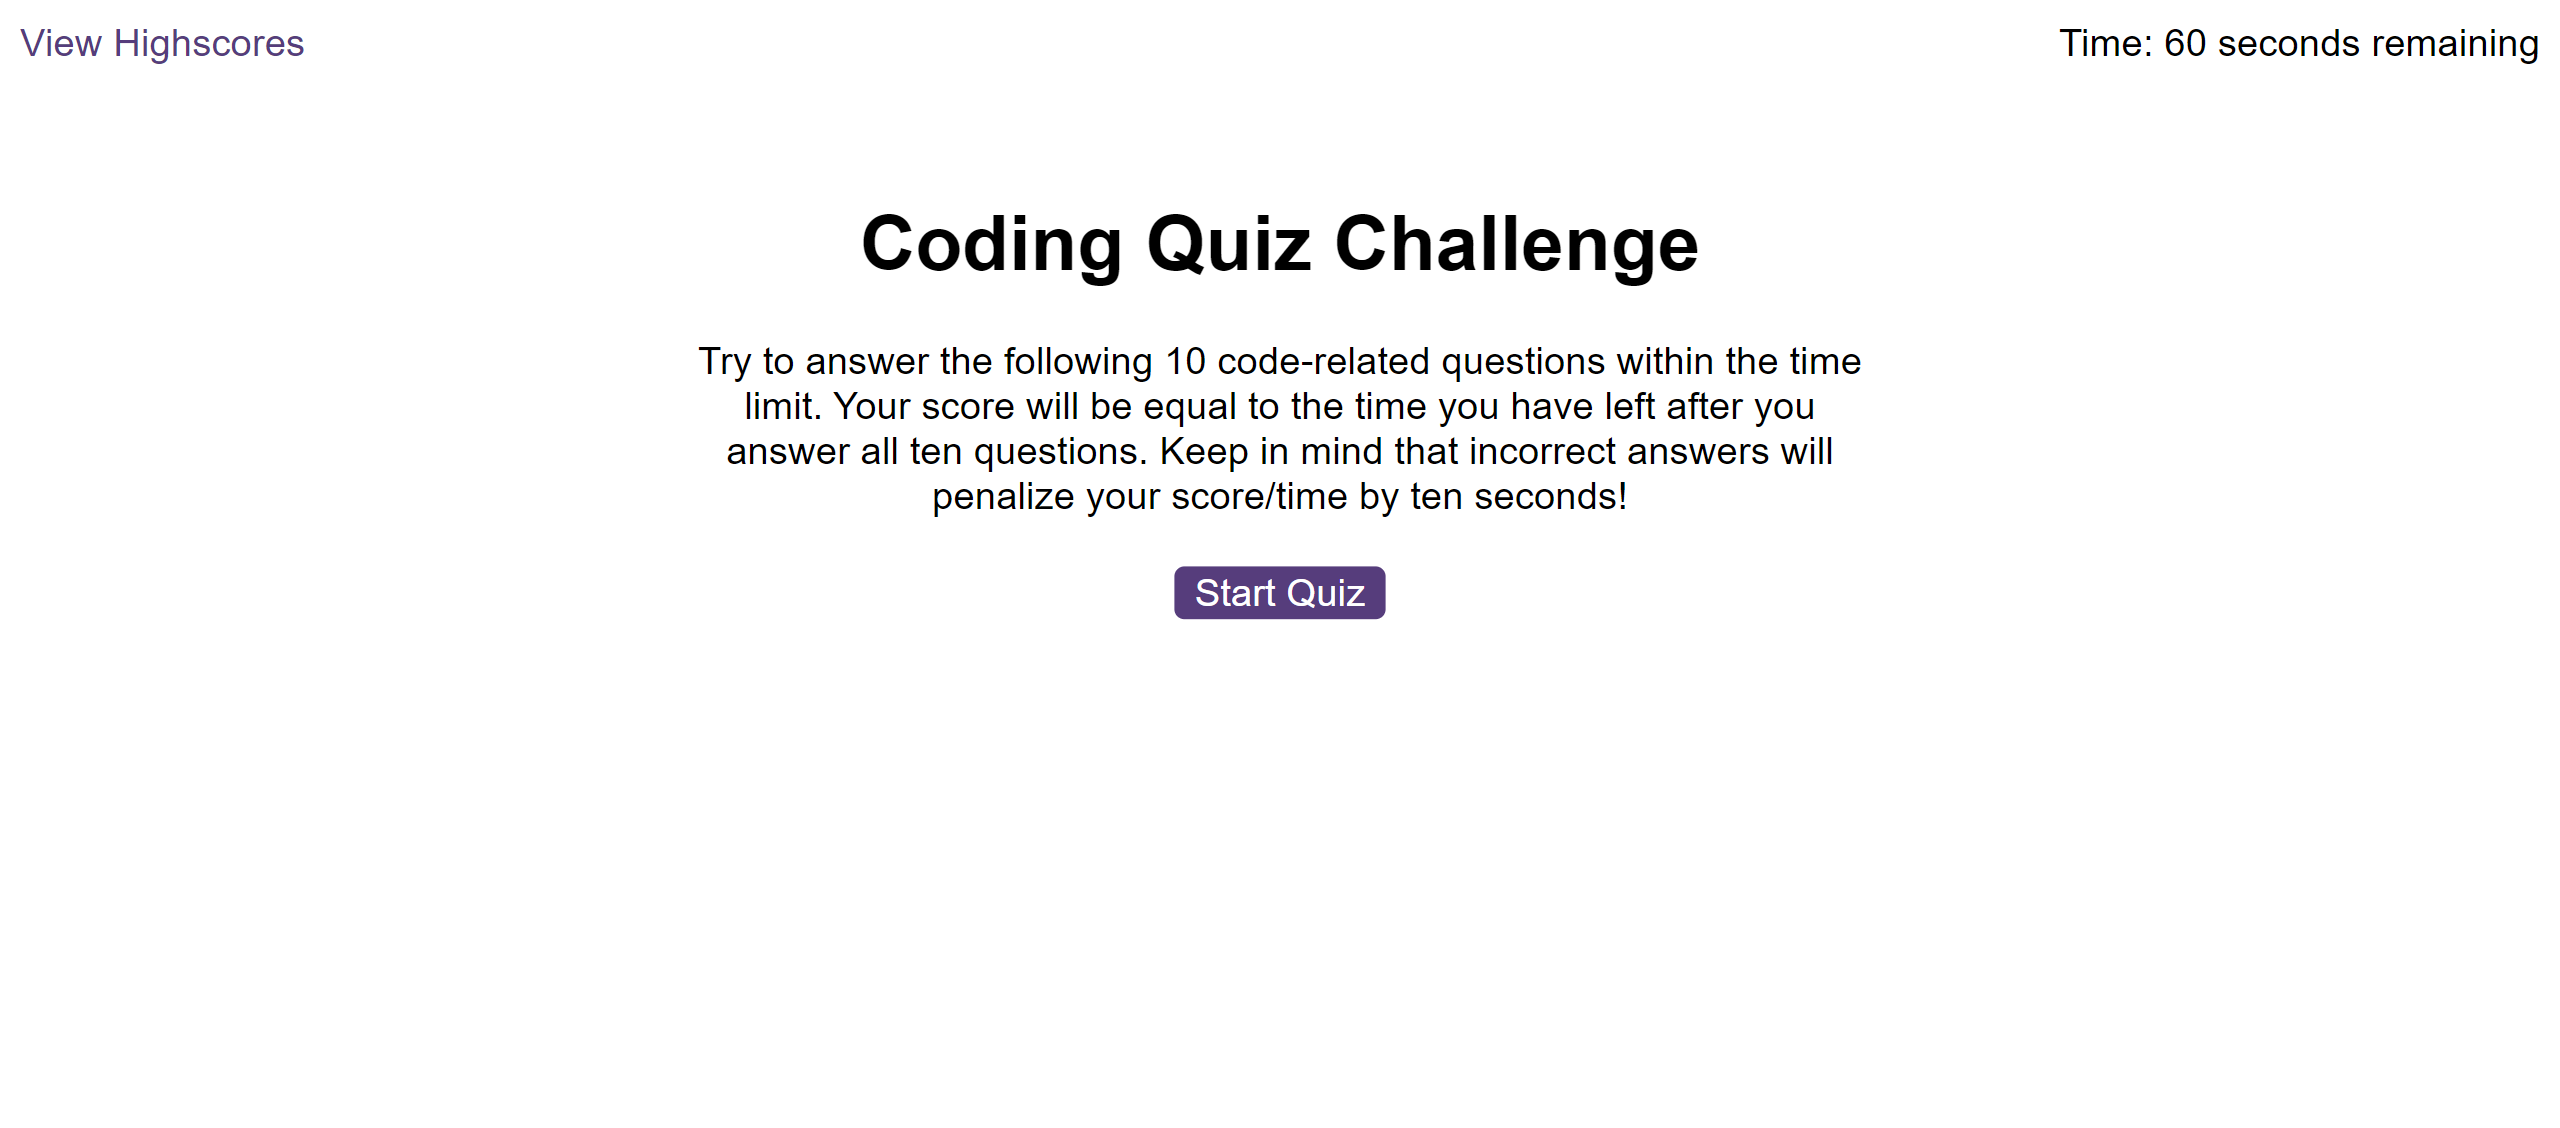
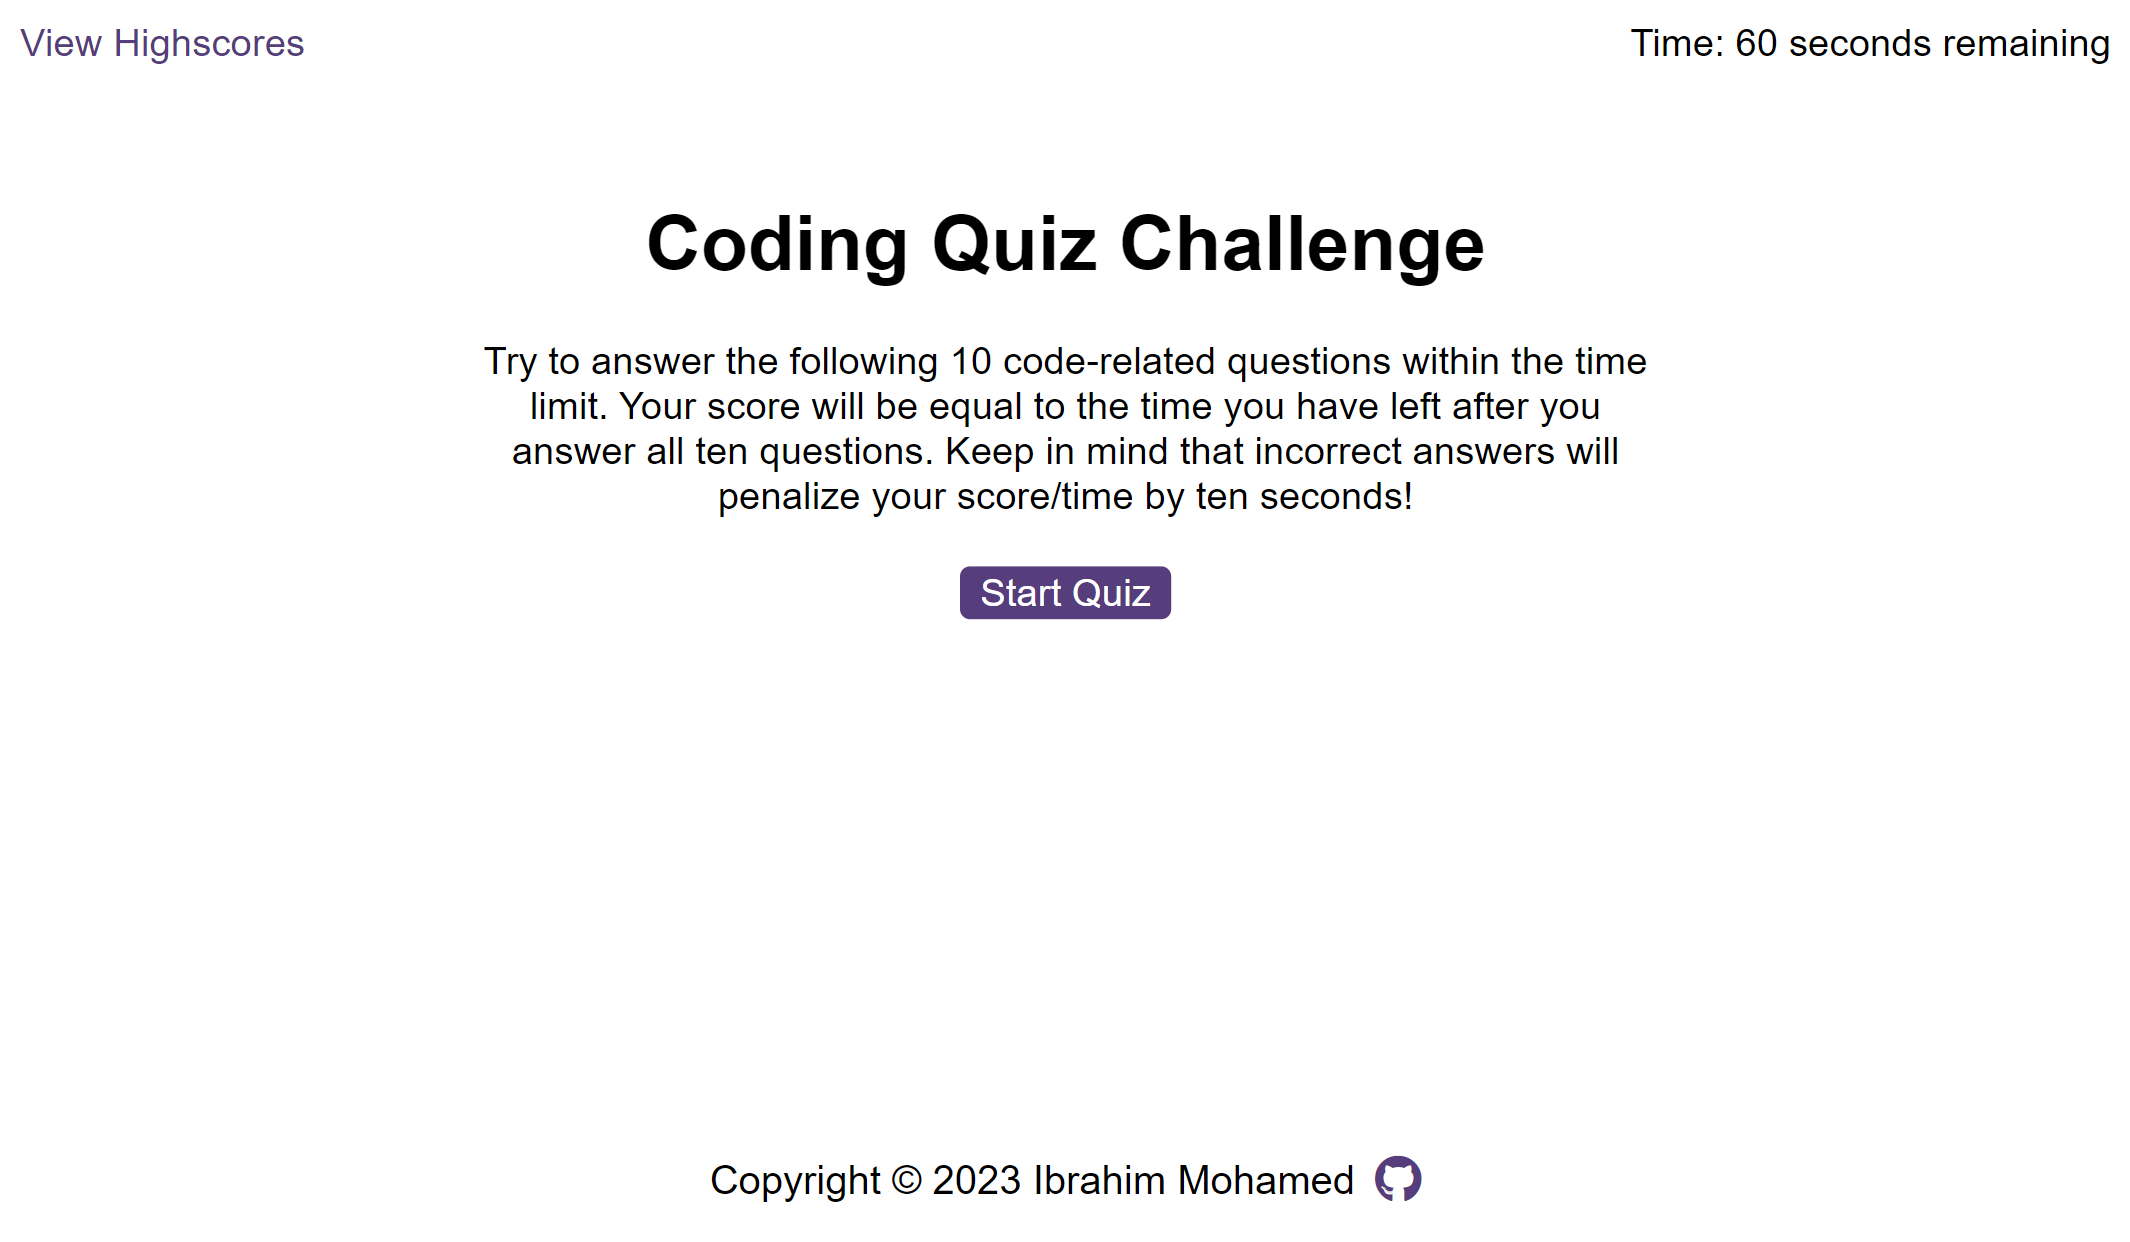
Style the footer

diff --git a/assets/css/styles.css b/assets/css/styles.css
@@ -87,3 +87,33 @@ li:nth-child(odd) {
   right: 10px;
 }
 
+.footer {
+  position: absolute;
+  bottom: 0;
+  left: 0;
+  display: flex;
+  align-items: center;
+  justify-content: center;
+  gap: 10px;
+  width: 100%;
+  font-size: 20px;
+}
+
+.fa-github {
+  font-size: 24px;
+  transition: transform 0.3s ease-in-out;
+}
+
+.fa-github:hover {
+  transform: rotate(360deg) scale(1.2);
+}
+
+@media only screen and (max-width: 400px) {
+  .timer {
+    font-size: medium;
+  }
+  .scores {
+    font-size: medium;
+  }
+}
+
